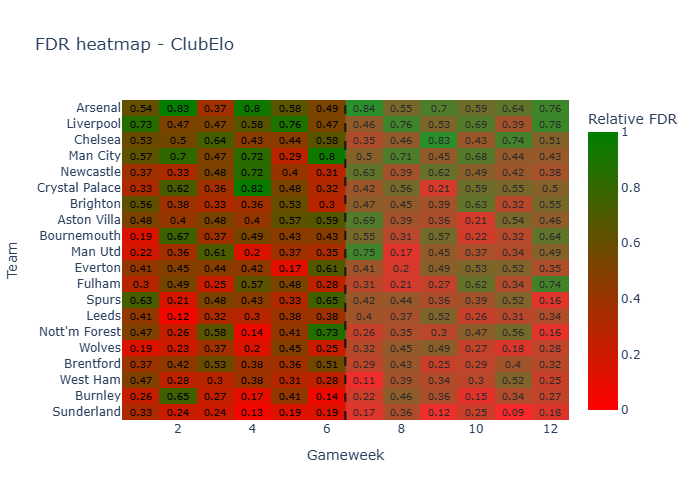
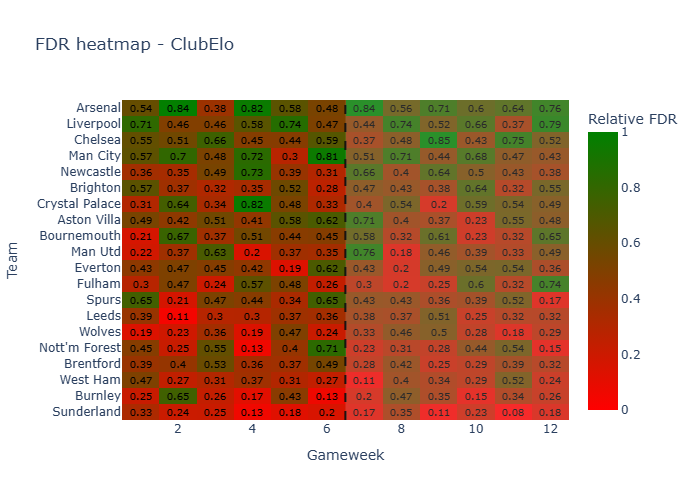
Added new post on miscellaneous.

diff --git a/docs/FPL/GW8_early_thoughts.md b/docs/FPL/GW8_early_thoughts.md
@@ -1,0 +1,67 @@
+
+### TLDR
+* Semenyo and Haaland are the HoF best picks so far
+* Liverpool to go on a series of easier games
+* Semenyo has been performing very well but tough games ahead in GW8,10 & 11
+
+### Elite players and performance
+
+Chasing Arsenal defensive strength with easy fixtures was also a common play that played out well. On the underperforming side, Gyokeres, Senesi, Reijnders & B. Fernandes have disappointed
+
+![Elite performance chart](../assets/images/elite_v_points_season_7.png)
+
+
+
+### FDR
+
+Arsenal, Liverpool and City have the easiest calendar for the next 6GWs. Followed by Chelsea, that has an easy GW8 + 11. 
+Watkins, Konsa, Rogers & co. had their shot at something good but time quickly ran out with their next fixtures materially harder than the previous. On the flip side, Liverpool to go on a easier run for next 6 games after a tough run.
+
+![FDR summary chart](../assets/images/fdr_summary7.png)
+
+![FDR heatmap chart](../assets/images/fdr_heatmap_7.png)
+
+### Measuring transfer pressure
+
+Using expected points from SolioAnalytics I compare season to date expected points vs expected points for next 6 gameweeks. Players with strong HoF selection rate & an expected big drop in points (or increase in fixture difficulty) are under more pressure to be subbed out while players with a projected increase in points could be subbed in.
+
+Semenyo has been performing very well but tough games ahead in GW8,10 & 11. Saka looks good for next few GWs, with few managers picking him still and favourable fixture run.
+
+##### Pressure to transfer in
+
+| name                             |   crowd_own |   elite_owner_rate |   Xpts delta vs past - zscore |   Delta in FDR vs past - zscore |   Weighted zscore |   Probability of buying |
+|:---------------------------------|------------:|-------------------:|------------------------------:|--------------------------------:|------------------:|------------------------:|
+| Bukayo Saka                      |        0.09 |               0.2  |                          3.38 |                            0.99 |              2.66 |                    0.97 |
+| Lucas Pires Silva                |        0    |               0    |                          3.47 |                            0    |              2.43 |                    0.95 |
+| Hannes Delcroix                  |        0    |               0    |                          3.47 |                            0    |              2.43 |                    0.95 |
+| Youri Tielemans                  |        0.01 |               0    |                          2.44 |                            2.17 |              2.36 |                    0.95 |
+| Matheus Santos Carneiro da Cunha |        0.04 |               0.02 |                          2.86 |                            1.08 |              2.33 |                    0.95 |
+| Axel Tuanzebe                    |        0.02 |               0    |                          3.28 |                            0    |              2.29 |                    0.95 |
+| Anthony Gordon                   |        0.02 |               0.12 |                          2.14 |                            1.1  |              1.83 |                    0.91 |
+| Lucas Estella Perri              |        0    |               0    |                          2.58 |                            0    |              1.81 |                    0.91 |
+| Martin Ødegaard                  |        0.02 |               0    |                          2.12 |                            0.99 |              1.78 |                    0.9  |
+| Rayan Aït-Nouri                  |        0.06 |               0    |                          2.56 |                           -0.14 |              1.75 |                    0.9  |
+| Jarrad Branthwaite               |        0    |               0    |                          2.35 |                           -0.25 |              1.57 |                    0.88 |
+| William Saliba                   |        0.13 |               0    |                          1.76 |                            0.99 |              1.53 |                    0.87 |
+| Jørgen Strand Larsen             |        0.01 |               0.04 |                          2.21 |                           -0.13 |              1.51 |                    0.87 |
+| Murillo Costa dos Santos         |        0.03 |               0    |                          2    |                            0.24 |              1.47 |                    0.86 |
+| Omar Marmoush                    |        0.03 |               0    |                          2.09 |                           -0.13 |              1.42 |                    0.86 |
+##### Pressure to transfer out
+
+| name                  |   crowd_own |   elite_owner_rate |   Xpts delta vs past - zscore |   Delta in FDR vs past - zscore |   Weighted zscore |   Probability of selling |
+|:----------------------|------------:|-------------------:|------------------------------:|--------------------------------:|------------------:|-------------------------:|
+| Erling Haaland        |        0.6  |               0.96 |                         -4.58 |                           -0.04 |             -3.22 |                     0.98 |
+| Ryan Gravenberch      |        0.06 |               0    |                         -3.58 |                           -1.05 |             -2.82 |                     0.97 |
+| Moisés Caicedo Corozo |        0.12 |               0    |                         -3.2  |                           -1.78 |             -2.77 |                     0.97 |
+| Amara Nallo           |        0    |               0    |                         -3.9  |                            0    |             -2.73 |                     0.97 |
+| Calvin Ramsay         |        0    |               0    |                         -3.9  |                            0    |             -2.73 |                     0.97 |
+| Rhys Williams         |        0    |               0    |                         -3.9  |                            0    |             -2.73 |                     0.97 |
+| Ármin Pécsi           |        0    |               0    |                         -3.9  |                            0    |             -2.73 |                     0.97 |
+| Freddie Woodman       |        0    |               0    |                         -3.9  |                            0    |             -2.73 |                     0.97 |
+| Robin Roefs           |        0.04 |               0    |                         -2.94 |                           -0.52 |             -2.22 |                     0.94 |
+| Jérémy Doku           |        0.08 |               0.02 |                         -2.97 |                           -0.13 |             -2.12 |                     0.93 |
+| Nico O'Reilly         |        0.01 |               0    |                         -2.96 |                           -0.14 |             -2.12 |                     0.93 |
+| Antoine Semenyo       |        0.57 |               0.84 |                         -3.3  |                            0.77 |             -2.08 |                     0.93 |
+| Michael Keane         |        0.01 |               0    |                         -2.83 |                           -0.25 |             -2.05 |                     0.93 |
+| Alisson Becker        |        0.09 |               0    |                         -2.44 |                           -1.07 |             -2.03 |                     0.93 |
+| Marc Guéhi            |        0.31 |               0    |                         -2.92 |                            0.2  |             -1.99 |                     0.92 |

diff --git a/docs/FPL/GW8 - HoF review.md b/docs/FPL/GW8 - HoF review.md
@@ -1,0 +1,66 @@
+
+Not a great week for HoF managers overall but most improved WoW.
+Haaland remained the most selected player, followed by Senesi and Semenyo. Haaland was the dominant captain, with only 2 managers trying Saka and 1 Gyokeres.
+Gabriel was the most subbed in player, which turned out ok with the Arsenal clean sheet. Saka also had 6 new managers selecting him. On the other hand, Pedro Porro, Selz & N. Williams were subbed out by 5 people.
+
+#### Latest GW7 vs GW6 – Starters deltas (by unique teams)
+
+##### Subbed IN (biggest increases)
+
+| player                       |   latest |   prev |   delta |
+|:-----------------------------|---------:|-------:|--------:|
+| Gabriel dos Santos Magalhães |       36 |     21 |      15 |
+| Martin Dúbravka              |        9 |      1 |       8 |
+| Marcos Senesi Barón          |       43 |     36 |       7 |
+| Viktor Gyökeres              |       37 |     30 |       7 |
+| Anthony Gordon               |        6 |      0 |       6 |
+| Bukayo Saka                  |       10 |      4 |       6 |
+| Anton Stach                  |       10 |      4 |       6 |
+| Maxence Lacroix              |        9 |      3 |       6 |
+| Chris Richards               |        4 |      0 |       4 |
+| Joe Rodon                    |        4 |      0 |       4 | 
+
+##### Subbed OUT (biggest decreases)
+
+| player                        |   latest |   prev |   delta |
+|:------------------------------|---------:|-------:|--------:|
+| Matz Sels                     |        2 |      7 |      -5 |
+| Neco Williams                 |        0 |      5 |      -5 |
+| Pedro Porro Sauceda           |        7 |     12 |      -5 |
+| Micky van de Ven              |        5 |      9 |      -4 |
+| James Tarkowski               |       19 |     23 |      -4 |
+| Florian Wirtz                 |        0 |      4 |      -4 |
+| Kiernan Dewsbury-Hall         |        0 |      4 |      -4 |
+| Richarlison de Andrade        |        5 |      9 |      -4 |
+| Cody Gakpo                    |        0 |      3 |      -3 |
+| João Pedro Junqueira de Jesus |       31 |     34 |      -3 |
+
+#### Top 3 Starters by Gameweek
+
+|   gw | Top1                        | Top2                               | Top3                               |
+|-----:|:----------------------------|:-----------------------------------|:-----------------------------------|
+|    1 | Cole Palmer (50, 100.0%)    | Mohamed Salah (49, 98.0%)          | Pedro Porro Sauceda (45, 90.0%)    |
+|    2 | Mohamed Salah (49, 98.0%)   | Maxime Estève (41, 82.0%)          | Florian Wirtz (34, 68.0%)          |
+|    3 | Mohamed Salah (48, 96.0%)   | Pedro Porro Sauceda (44, 88.0%)    | Bruno Borges Fernandes (34, 68.0%) |
+|    4 | Mohamed Salah (49, 98.0%)   | Pedro Porro Sauceda (37, 74.0%)    | Bruno Borges Fernandes (33, 66.0%) |
+|    5 | Mohamed Salah (48, 96.0%)   | Bruno Borges Fernandes (33, 66.0%) | Joachim Andersen (33, 66.0%)       |
+|    6 | Erling Haaland (50, 100.0%) | Tijjani Reijnders (43, 86.0%)      | Antoine Semenyo (42, 84.0%)        |
+|    7 | Erling Haaland (48, 96.0%)  | Marcos Senesi Barón (43, 86.0%)    | Antoine Semenyo (42, 84.0%)        | 
+
+#### Top 3 Captains by Gameweek
+
+|   gw | Top1                               | Top2                      | Top3                             |
+|-----:|:-----------------------------------|:--------------------------|:---------------------------------|
+|    1 | Mohamed Salah (49, 98.0%)          | Erling Haaland (1, 2.0%)  | None                             |
+|    2 | Mohamed Salah (46, 92.0%)          | Bukayo Saka (3, 6.0%)     | Erling Haaland (1, 2.0%)         |
+|    3 | Bruno Borges Fernandes (27, 54.0%) | Mohamed Salah (11, 22.0%) | Chris Wood (5, 10.0%)            |
+|    4 | Mohamed Salah (49, 98.0%)          | Erling Haaland (1, 2.0%)  | None                             |
+|    5 | Mohamed Salah (47, 94.0%)          | Antoine Semenyo (1, 2.0%) | Bruno Borges Fernandes (1, 2.0%) |
+|    6 | Erling Haaland (50, 100.0%)        | None                      | None                             |
+|    7 | Erling Haaland (47, 94.0%)         | Bukayo Saka (2, 4.0%)     | Viktor Gyökeres (1, 2.0%)        |
+
+![GW7 overall rank](../assets/images/overallrank7.png)
+
+![GW7 rank](../assets/images/gwrank_7.png)
+
+![chip percentage chart gw7](../assets/images/chippct_7.png)
